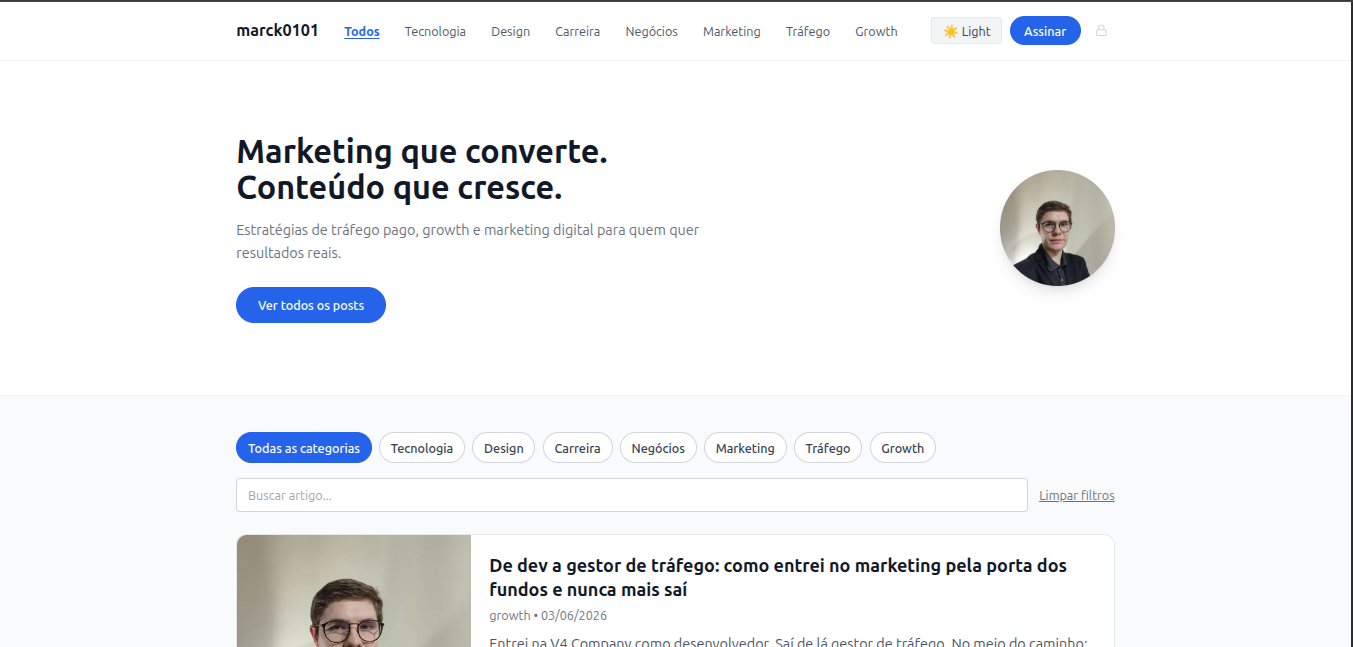
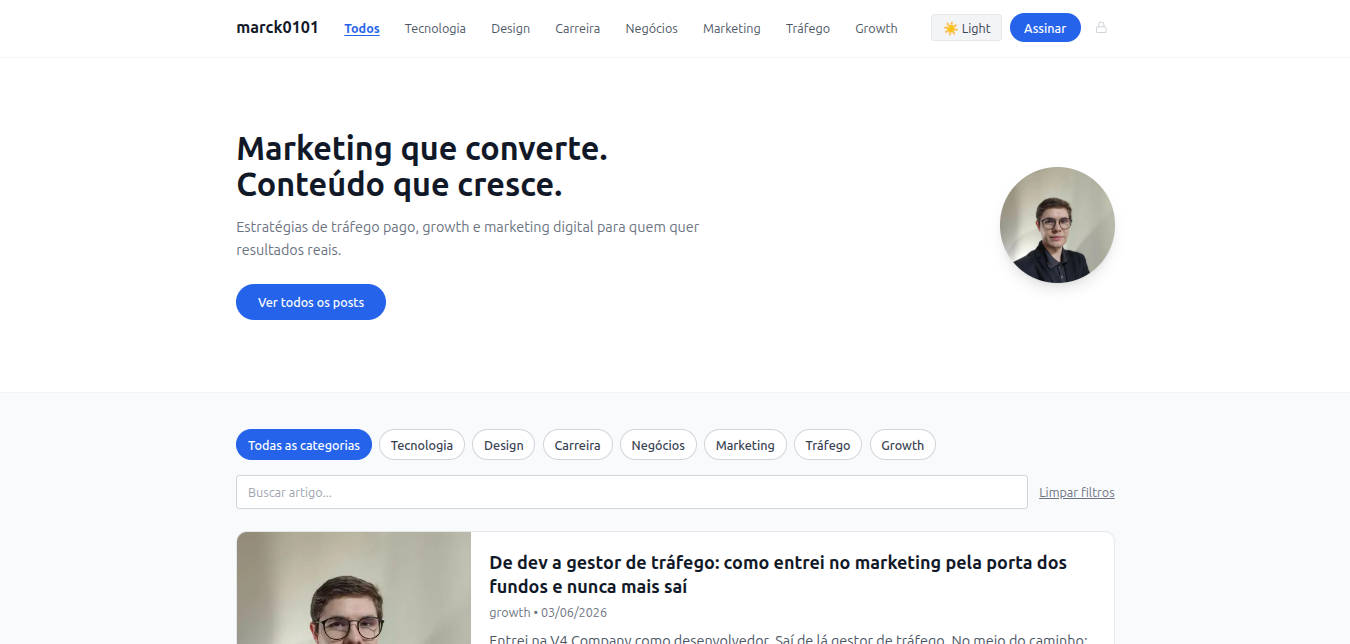
ajuste na altura e largura das imagens

diff --git a/src/components/portfolio/Portfolio.js b/src/components/portfolio/Portfolio.js
@@ -1,10 +1,9 @@
-/* eslint-disable no-unused-vars */
 import React from "react";
 import PortfolioBlock from "./PortfolioBlock";
-import { Box, Grid } from "@mui/material";
 import { info } from "../../info/Info";
 import { BsCodeSlash } from "react-icons/bs";
 import { Helmet } from "react-helmet-async";
+import Style from "./Portfolio.module.scss";
 
 export default function Portfolio() {
   return (
@@ -14,10 +13,9 @@ export default function Portfolio() {
         <meta name="description" content="Projetos desenvolvidos por Marcos Corrêa: JB Imobiliária, VDR-Dashboard, sites React e mais. Veja o código e as demos ao vivo." />
         <link rel="canonical" href="https://marck0101.com.br/portfolio" />
       </Helmet>
-    <Box>
-      <Grid container display={"flex"} justifyContent={"center"}>
+      <div className={Style.grid}>
         {info.portfolio.map((project, index) => (
-          <Grid item xs={12} md={6} key={index}>
+          <div key={index}>
             <PortfolioBlock
               image={project.image}
               live={project.live}
@@ -25,22 +23,13 @@ export default function Portfolio() {
               title={project.title}
               description={project.description}
             />
-          </Grid>
-        ))}
-        <div>
-          <h2>Ainda em desenvolvimento!</h2>
-          <div
-            style={{
-              display: "flex",
-              flexDirection: "column",
-              alignItems: "center",
-            }}
-          >
-            <BsCodeSlash size={30} />
           </div>
+        ))}
+        <div className={Style.wip}>
+          <h2>Ainda em desenvolvimento!</h2>
+          <BsCodeSlash size={30} />
         </div>
-      </Grid>
-    </Box>
+      </div>
     </>
   );
 }

diff --git a/src/components/portfolio/PortfolioBlock.module.scss b/src/components/portfolio/PortfolioBlock.module.scss
@@ -1,11 +1,16 @@
 @import "../../variables.modules";
 
+.card {
+  width: 100%;
+  border-radius: 12px;
+  overflow: hidden;
+}
+
 .imageContainer {
   width: 100%;
-  height: 200px;
+  height: 260px;
   overflow: hidden;
   display: block;
-  border-radius: 8px 8px 0 0;
 }
 
 .image {
@@ -18,7 +23,7 @@
 
 .placeholder {
   width: 100%;
-  height: 200px;
+  height: 260px;
   display: flex;
   flex-direction: column;
   align-items: center;
@@ -26,7 +31,6 @@
   gap: 1rem;
   background-color: rgba(141, 83, 255, 0.06);
   border: 2px dashed rgba(141, 83, 255, 0.3);
-  border-radius: 8px 8px 0 0;
   color: $lightgray;
   font-size: 0.9rem;
 }

diff --git a/src/components/portfolio/Portfolio.module.scss b/src/components/portfolio/Portfolio.module.scss
@@ -1,0 +1,25 @@
+@import "../../variables.modules";
+
+.grid {
+  display: grid;
+  grid-template-columns: repeat(2, 1fr);
+  gap: 2rem;
+  padding: 2rem;
+  max-width: 1200px;
+  margin: 0 auto;
+
+  @media (max-width: 768px) {
+    grid-template-columns: 1fr;
+    padding: 1rem;
+  }
+}
+
+.wip {
+  grid-column: 1 / -1;
+  display: flex;
+  flex-direction: column;
+  align-items: center;
+  gap: 0.5rem;
+  padding: 1rem 0 0.5rem;
+  opacity: 0.6;
+}

diff --git a/src/components/portfolio/PortfolioBlock.js b/src/components/portfolio/PortfolioBlock.js
@@ -10,9 +10,9 @@ function PortfolioBlock(props) {
     <Box
       display={"flex"}
       flexDirection={"column"}
-      justifyContent={"center"}
       alignItems={"center"}
       width={"100%"}
+      className={Style.card}
     >
       {image ? (
         <Box className={Style.imageContainer}>
